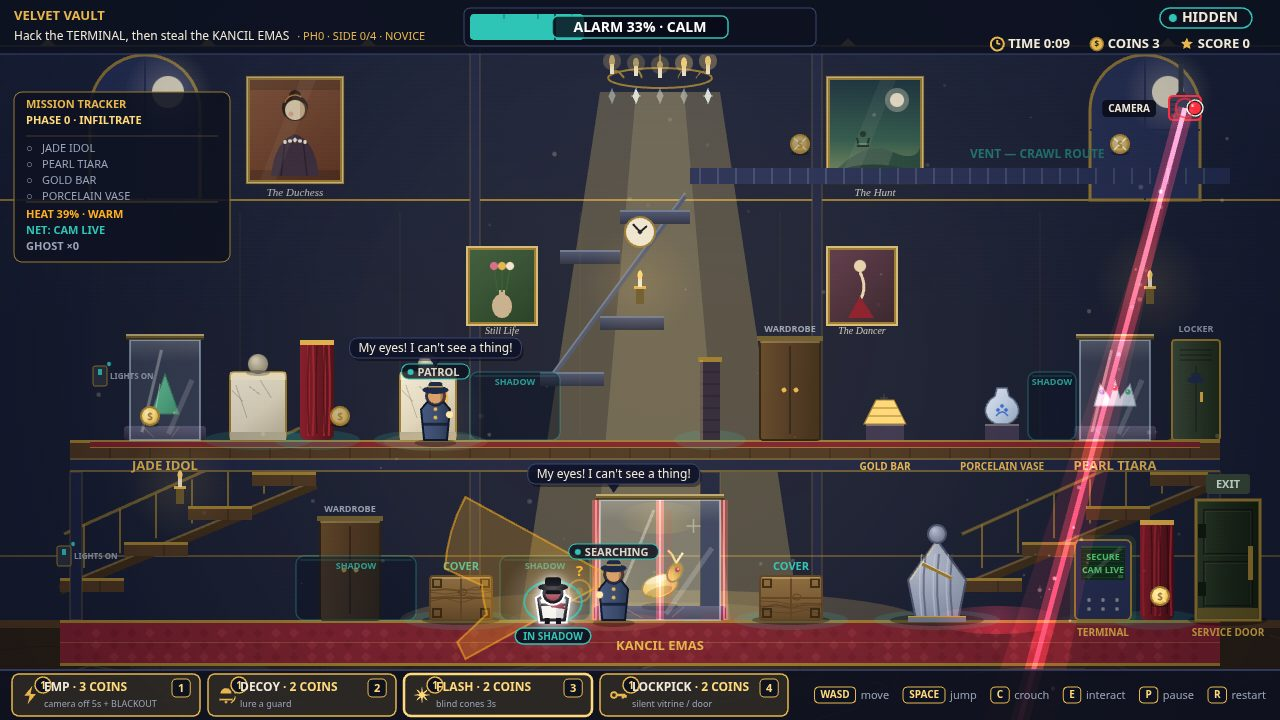
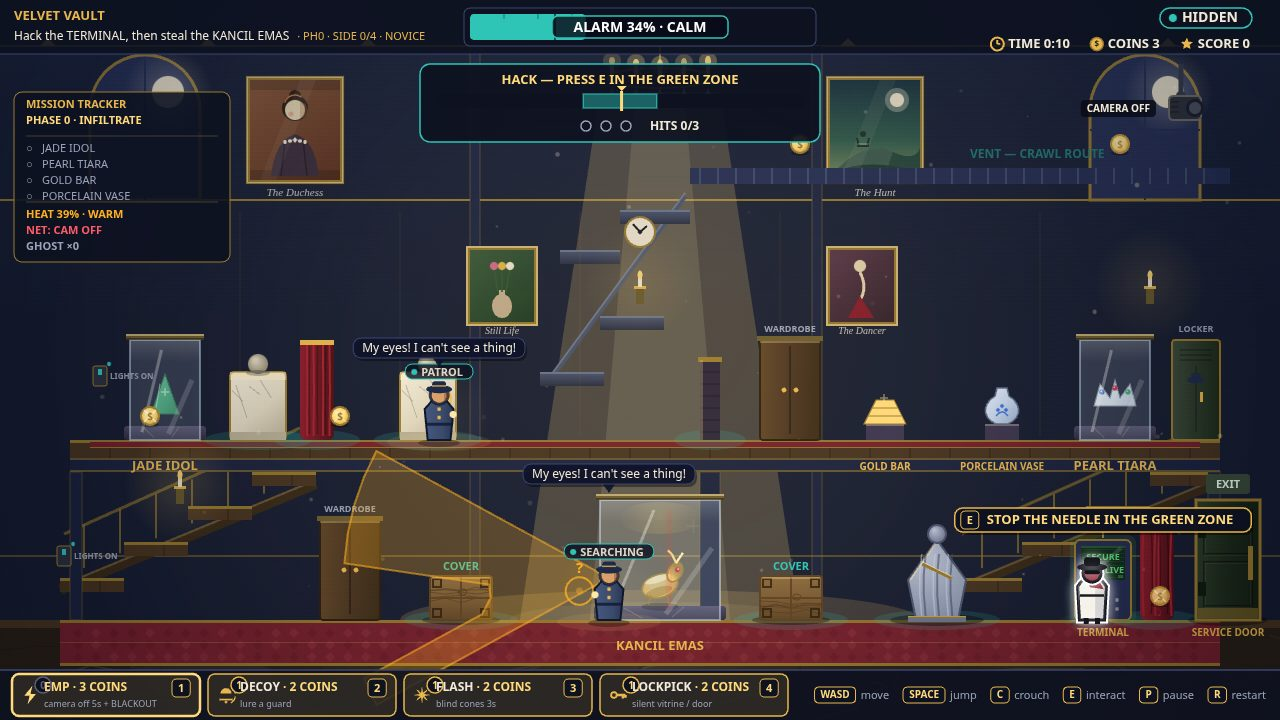
VELVET VAULT rev14 — hapus shadow zones + IN SHADOW, re-stage stealth di terminal (minigame + LKP search)

diff --git a/game/src/shots.js b/game/src/shots.js
@@ -361,16 +361,13 @@ export function buildShot(name) {
   }
 
   if (name === 'stealth') {
-    // Rev13 — the rev11/12 stealth frame showed the hacking minigame,
-    // but the two rev12 systems it was supposed to showcase never
-    // read: the thief at the terminal stands in NO shadow zone, and
-    // both guards were patrol/return (the LKP marker only draws for
-    // search/suspect). This frame shows them both, from the real rules:
-    // the thief is seen, FLASHes the chasing guard blind, and hides
-    // crouched in the ground shadow zone (500-590) while the guard
-    // SEARCHES the last-seen spot — IN SHADOW pill + teal ring on the
-    // thief, amber "?" ring at the last-seen spot, SEARCHING label.
-    // The route, measured in node (rev13 probes 9-12):
+    // Rev14 — the shadow system is gone (Fxzy: "Hapus shadow"), so the
+    // rev13 freeze (crouched in the ground shadow zone, IN SHADOW pill)
+    // cannot be staged any more. This frame keeps the rev13 beat that
+    // mattered — the guard SEARCHES the last-seen spot, amber "?" ring
+    // at the LKP — and brings back the rev11/12 beat rev13 lost: the
+    // thief at the terminal, mid-hack, minigame panel open with the
+    // needle mid-green. The route, measured in node (rev14 probes):
     //  - Walk to 860 and stand 2s: the guard finishes investigating
     //    the walk noise and his suspicion decays to 0 (patrol). A
     //    bare detour without the stand leaves him investigating at
@@ -383,12 +380,18 @@ export function buildShot(name) {
     //  - FLASH at once, where the thief stands: the guard is blinded
     //    3s, so he cannot catch the thief while the thief moves, and
     //    loses the trail after 2s (chase -> search, alarm -6).
-    //  - Run to 545 and crouch: the thief is inside the shadow zone
-    //    (centre 565) before the guard flips to search. The freeze
-    //    lands the step the guard enters search: alarm ~33, tier 0,
-    //    the camera still live, the Kancil vitrine in frame.
-    // The minigame panel leaves this frame (the minigame itself still
-    // runs: the win route hacks the terminal through it, play-tested).
+    //  - EMP where the thief stands (stock 1, free): the camera stays
+    //    dead 5s, so the run to the terminal crosses its floor zone
+    //    unseen — without it the camera locks on en route (alarm 68,
+    //    tier 1, det 2: measured in the no-EMP probe, cut).
+    //  - Run to the terminal, open the hack: the guard is SEARCHING
+    //    the last-seen spot (580,591) while the thief hacks. The
+    //    freeze lands when the needle sits mid-green (50-55): alarm
+    //    ~34, tier 0, camera off ~2s (EMP aftermath, blackout just
+    //    ended), Kancil vitrine in frame. The thief stands at the
+    //    terminal, not crouched behind cover — the minigame is the
+    //    frame's second system, and the guard searching the wrong
+    //    spot is the stealth story.
     stepWorld(state, [
       { x: 860 },
       { x: 860, action: 'hold', seconds: 2 },
@@ -399,10 +402,17 @@ export function buildShot(name) {
     ], 40 / STEP, (s) => s.guards[0].state === 'chase');
     const fx = Math.round(state.player.x);
     stepWorld(state, [{ x: fx, action: 'flash' }], 5 / STEP);
+    stepWorld(state, [{ x: fx, action: 'emp' }], 5 / STEP);
     stepWorld(state, [
-      { x: 545 },
-      { x: 545, action: 'wait', seconds: 10 },
-    ], 12 / STEP, (s) => s.guards[0].state === 'search' && s.shadow.inShadow);
+      { x: 1100 },
+      { x: 1100, action: 'openHack' },
+    ], 12 / STEP);
+    // Let the hall run: freeze when the guard is SEARCHING the LKP
+    // and the needle sits mid-green. The empty plan never breaks on
+    // its own — only the stop condition or the step budget ends it.
+    stepWorld(state, [], 6 / STEP, (s) => s.guards[0].state === 'search'
+      && s.minigame && s.minigame.active
+      && s.minigame.needle >= 50 && s.minigame.needle <= 55);
     return state;
   }
 

diff --git a/game/src/render.js b/game/src/render.js
@@ -4,7 +4,7 @@
 // big white silhouette with a dark outline, findable at a glance.
 import {
   CAMERA, COINS, COVER, EXTRA_LOOT, FIELD, GUARD, HIDE_SPOTS, LOCKER,
-  PALETTE, PLATFORMS, SERVICE_DOOR, SHADOW_ZONES, SWITCHES, TERMINAL,
+  PALETTE, PLATFORMS, SERVICE_DOOR, SWITCHES, TERMINAL,
   TOOLS, VITRINES, FONT, FONT_DISPLAY,
 } from './config.js';
 import { coneRayHit, laserHit } from './vision.js';
@@ -255,31 +255,6 @@ function drawAmbient(ctx, s) {
     ctx.beginPath();
     ctx.arc(x, y, m.r, 0, Math.PI * 2);
     ctx.fill();
-  }
-}
-
-/**
- * Rev12 — Shadow Stealth: the shadow zones as real places in the room.
- * A deep blue-teal dark patch with a soft rim and a small SHADOW tag,
- * so the player can see where to hide before stepping in. Drawn over
- * the room but under every entity, so nothing is ever hidden by it.
- */
-function drawShadowZones(ctx, s) {
-  for (const z of SHADOW_ZONES) {
-    ctx.fillStyle = 'rgba(8,16,32,0.42)';
-    roundRect(ctx, z.x, z.y, z.w, z.h, 8);
-    ctx.fill();
-    ctx.strokeStyle = 'rgba(46,196,182,0.28)';
-    ctx.lineWidth = 1.5;
-    ctx.stroke();
-    // A faint teal sheen along the top edge: the shadow has a shape,
-    // it is not a hole cut in the floor.
-    ctx.fillStyle = 'rgba(46,196,182,0.14)';
-    ctx.fillRect(z.x + 4, z.y + 3, z.w - 8, 2);
-    ctx.fillStyle = 'rgba(46,196,182,0.75)';
-    ctx.font = `bold 9px ${FONT}`;
-    ctx.textAlign = 'center';
-    ctx.fillText('SHADOW', z.x + z.w / 2, z.y + 13);
   }
 }
 
@@ -646,31 +621,6 @@ function drawThief(ctx, s) {
     ctx.beginPath();
     ctx.arc(x + w * 0.5, y + h * 0.5, 52, 0, Math.PI * 2);
     ctx.fill();
-  }
-  // Rev12 — IN SHADOW: a teal ring around the thief plus a small pill
-  // under his feet, live from s.shadow.inShadow. The pill sits BELOW
-  // the feet (not above the head) so it can never collide with a guard
-  // bark bubble, which lifts above the thief's head.
-  if (s.shadow && s.shadow.inShadow) {
-    ctx.strokeStyle = 'rgba(46,196,182,0.85)';
-    ctx.lineWidth = 2;
-    ctx.beginPath();
-    ctx.ellipse(x + w * 0.5, y + h * 0.5, w * 0.72, h * 0.58, 0, 0, Math.PI * 2);
-    ctx.stroke();
-    ctx.font = `bold 10px ${FONT}`;
-    const label = 'IN SHADOW';
-    const lw = ctx.measureText(label).width + 16;
-    const lx = Math.max(6, Math.min(FIELD.width - lw - 6, x + w / 2 - lw / 2));
-    const ly = y + h + 8;
-    ctx.fillStyle = 'rgba(13,17,32,0.92)';
-    roundRect(ctx, lx, ly, lw, 16, 8);
-    ctx.fill();
-    ctx.strokeStyle = PALETTE.teal;
-    ctx.lineWidth = 1.5;
-    ctx.stroke();
-    ctx.fillStyle = PALETTE.teal;
-    ctx.textAlign = 'center';
-    ctx.fillText(label, lx + lw / 2, ly + 11.5);
   }
   // Rev4: a white halo ring + soft white glow, so the thief reads at
   // 768x480 on the navy wall and the dark carpet. The white silhouette
@@ -3880,7 +3830,6 @@ function drawLose(ctx, s) {
 export function render(ctx, s) {
   ctx.clearRect(0, 0, FIELD.width, FIELD.height);
   drawRoom(ctx, s);
-  drawShadowZones(ctx, s);
   drawGuardLightPools(ctx, s);
   drawAmbient(ctx, s);
   drawCoins(ctx, s);

diff --git a/game/src/world.js b/game/src/world.js
@@ -22,7 +22,7 @@
 import {
   ALARM, ALARM_TIERS, CAMERA, COINS, COVER, CUTOFF_X, EXTRA_LOOT, FIELD,
   GUARD, HIDE_SPOTS, INVENTORY_START, LOCKER, LOOT, MINIGAME, PLATFORMS,
-  PLAYER, SCORE, SERVICE_DOOR, SHADOW_ZONES, SWITCHES, TERMINAL, TOOLS,
+  PLAYER, SCORE, SERVICE_DOOR, SWITCHES, TERMINAL, TOOLS,
   VITRINES,
 } from './config.js';
 import { mulberry32 } from './random.js';
@@ -110,7 +110,6 @@ export function newWorld(seed = 1) {
     lockerUsed: false,
     heistRank: 'Novice',
     // --- Rev12 state. ---
-    shadow: { inShadow: false },
     heatPeak: 0,
     inventory: { ...INVENTORY_START },
     gadgetsUsed: { emp: 0, decoy: 0, flash: 0, lockpick: 0 },
@@ -158,15 +157,6 @@ function effectiveConeRange(s, g) {
   if (s.alarmTier === 2) range *= 1.15; // tier 2: +15% range
   if (!s.lights[guardFloor(g)]) range *= 0.7; // dark floor: -30%
   if (s.env.dimT > 0) range *= 0.75; // dimming event: -25%
-  // Rev12 shadow: a still or crouched thief in shadow is hard to see
-  // (-15% cone); a SPRINTING thief gets NO concealment at all — he is
-  // loud and moving, and the shadow does not hide him. (A flat -15%
-  // for runners starved the alert scene's chase: suspicion filled so
-  // slowly the guard was already adjacent when it maxed, and the
-  // staged catch flipped chase -> search before the freeze.)
-  if (s.shadow && s.shadow.inShadow && (s.player.crouch || Math.abs(s.player.vx) < 50)) {
-    range *= 0.85;
-  }
   return range;
 }
 
@@ -181,11 +171,6 @@ function suspicionMultiplier(s, g, dist) {
   if (!s.lights[guardFloor(g)]) m *= 0.7; // dark floor: -30%
   if (s.env.dimT > 0) m *= 0.5; // dimming event: -50%
   if (s.env.flicker < 0.35) m *= 0.5; // chandelier flicker dip: -50%
-  // Rev12 shadow: -55% suspicion for a still/crouched thief, NO
-  // concealment for a sprinting one (see effectiveConeRange above).
-  if (s.shadow && s.shadow.inShadow && (s.player.crouch || Math.abs(s.player.vx) < 50)) {
-    m *= 0.45;
-  }
   return m;
 }
 
@@ -235,18 +220,6 @@ function updateMission(s) {
   if (s.detections === 0) {
     s.ghostStreak = side + (s.loot.kancil ? 1 : 0);
   }
-}
-
-/** Rev12 — is the thief standing in a shadow zone right now? Fixed
- *  seeded rectangles from config; the renderer draws them, the
- *  suspicion/cone math reads this flag. */
-function updateShadow(s) {
-  const p = s.player;
-  const cx = p.x + p.width / 2;
-  const cy = p.y + p.height / 2;
-  s.shadow.inShadow = SHADOW_ZONES.some(
-    (z) => cx >= z.x && cx <= z.x + z.w && cy >= z.y && cy <= z.y + z.h,
-  );
 }
 
 /** Rev12 — heat level from the run's peak alarm. Heat never cools:
@@ -964,7 +937,6 @@ export function update(s, input, dt) {
   // Dynamic environment (dimming schedule + flicker), then the live
   // alarm tier and the escape state it drives.
   updateEnv(s);
-  updateShadow(s);
   // Rev12 — heat is the run's peak alarm: it only ever rises, even
   // when the alarm itself drops (hack relief, chase ending).
   s.heatPeak = Math.max(s.heatPeak, s.alarm);

diff --git a/game/src/config.js b/game/src/config.js
@@ -123,17 +123,6 @@ export const SCORE = {
  *  planning adds +1 stock of the chosen gadget. */
 export const INVENTORY_START = { emp: 1, decoy: 1, flash: 2, lockpick: 1 };
 
-/** Rev12 — shadow zones: fixed, seeded rectangles where the thief is
- *  hard to see (suspicion fills 55% slower, cones reach 15% shorter).
- *  Two on the ground floor, two upstairs, each tucked behind cover so
- *  a crouched thief there reads as "hiding in the dark". */
-export const SHADOW_ZONES = [
-  { x: 296, y: 556, w: 120, h: 64, floor: 'ground' },
-  { x: 500, y: 556, w: 90, h: 64, floor: 'ground' },
-  { x: 470, y: 372, w: 90, h: 68, floor: 'upper' },
-  { x: 1028, y: 372, w: 48, h: 68, floor: 'upper' },
-];
-
 /** Alarm tiers: 0 below 35%, 1 at 35-69%, 2 at 70% and up. */
 export const ALARM_TIERS = { tier1At: 35, tier2At: 70 };
 

diff --git a/game/src/main.js b/game/src/main.js
@@ -111,10 +111,9 @@ if (shotName) {
     thief: { x: Math.round(state.player.x), y: Math.round(state.player.y) },
     cameraAngle: Number(state.camera.angle.toFixed(2)),
     cameraOff: state.camera.offT,
-    // Rev12 live state, for the verifier: heat, shadow, inventory,
+    // Rev12 live state, for the verifier: heat, inventory,
     // ghost streak, close calls, tracker and network status.
     heatPeak: Math.floor(state.heatPeak || 0),
-    inShadow: Boolean(state.shadow && state.shadow.inShadow),
     inventory: state.inventory,
     gadgetsUsed: state.gadgetsUsed,
     ghostStreak: state.ghostStreak || 0,
